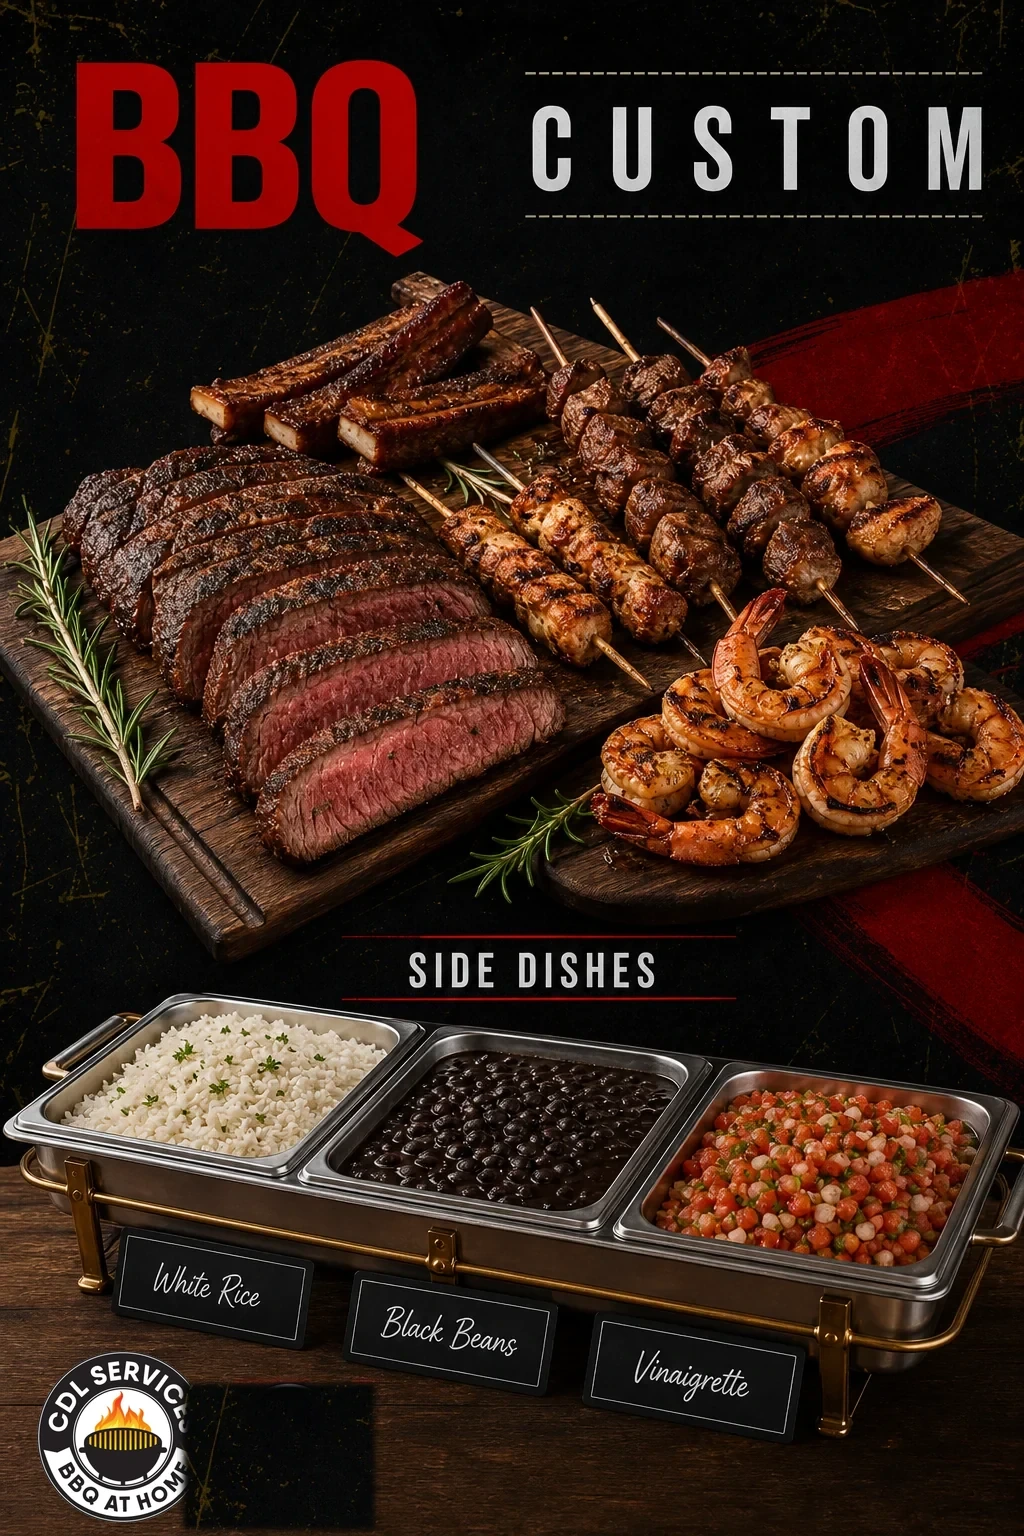
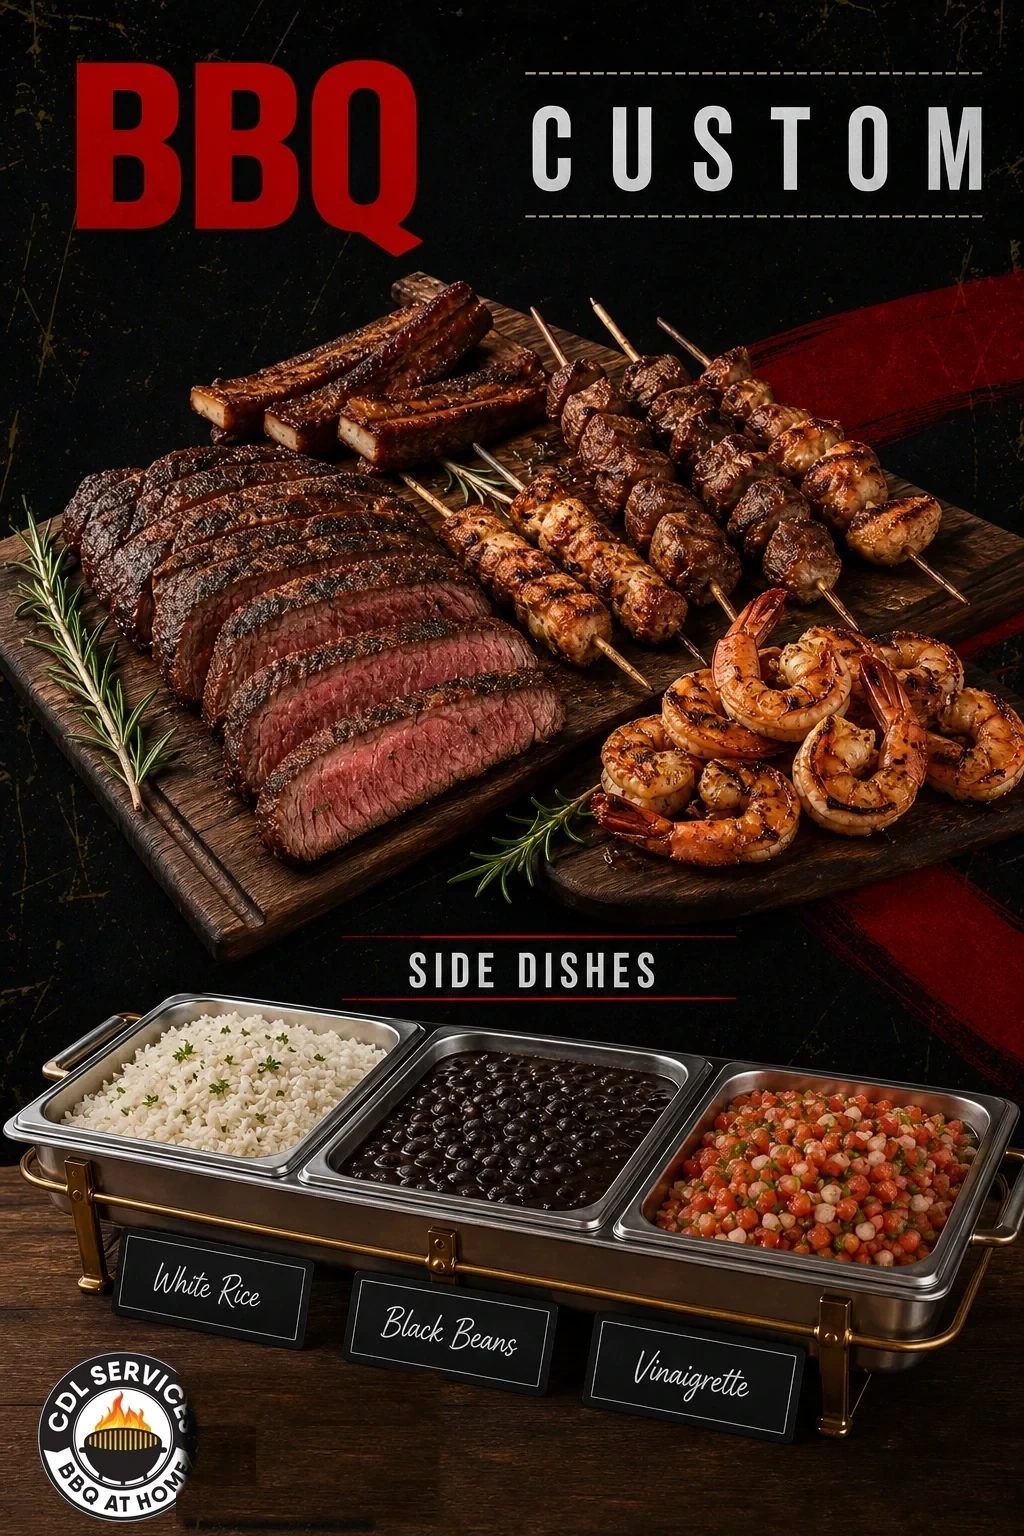
fix(public-quote): remove stray BB from personalized folder art
Tile native wood over the leftover BBQ/BB layer on the six BBQPERS
flyers, restore the official CDL mark, and cache-bust only those files.

Changed region(s): [[0.1562, 0.875, 0.4375, 1.0]]

diff --git a/Lib/packageCatalogVisual.ts b/Lib/packageCatalogVisual.ts
@@ -130,7 +130,13 @@ export function getPackageFolderArt(
   if (!file) return null
   const base = process.env.NEXT_PUBLIC_SUPABASE_URL?.replace(/\/$/, '')
   if (!base) return null
-  return `${base}/storage/v1/object/public/${PACKAGE_FOLDER_BUCKET}/${PACKAGE_FOLDER_PREFIX}/${file}`
+  const url = `${base}/storage/v1/object/public/${PACKAGE_FOLDER_BUCKET}/${PACKAGE_FOLDER_PREFIX}/${file}`
+  // Personalized folders were repaired in place; bust the year-long cache
+  // on those six objects only. Other V3 art keeps the stored filename.
+  if (file.startsWith('bbqpers-')) {
+    return `${url}?v=bbfix1`
+  }
+  return url
 }
 
 export function getPackageCatalogImage(

diff --git a/scripts/dev/remove-folder-stray-bb.py b/scripts/dev/remove-folder-stray-bb.py
@@ -1,0 +1,150 @@
+"""Remove the stray BBQ/BB fragment beside the CDL mark on personalized folders.
+
+The V3 BBQPERS / BBQPERS+ flyers kept a leftover layer to the right of the
+official CDL mark: a dark box and, on PT especially, a large red "BB". The
+mark itself is official and must not be redrawn.
+
+A measured strip of the flyer's own surface is tiled over a tight hole and
+feathered at the edge only. Poisson blending is not used — it reconstructed
+the mark. The official mark is copied back from the original afterwards.
+
+Run: python3 scripts/dev/remove-folder-stray-bb.py [--dry-run]
+"""
+import json
+import os
+import sys
+
+import cv2
+import numpy as np
+
+ROOT = os.path.join(os.path.dirname(os.path.abspath(__file__)), '..', '..')
+PACKAGES = os.path.join(ROOT, 'assets', 'packages')
+FOLDERS = os.path.join(PACKAGES, 'folders-v3')
+MARKS = os.path.join(PACKAGES, 'folder-badge-locations.json')
+REPORT = os.path.join(PACKAGES, 'folder-stray-bb-removal.json')
+
+# hole = leftover box / letters. strip = clean native texture, never overlapping the mark.
+JOBS = {
+    'bbqpers-plus-pt-v3.webp': {
+        'hole': (198, 1304, 310, 188),
+        'strip': (540, 1464, 340, 66),
+    },
+    'bbqpers-plus-en-v3.webp': {
+        'hole': (176, 1366, 270, 160),
+        'strip': (520, 1472, 320, 60),
+    },
+    'bbqpers-plus-es-v3.webp': {
+        'hole': (186, 1348, 280, 164),
+        'strip': (580, 1470, 320, 60),
+    },
+    'bbqpers-pt-v3.webp': {
+        'hole': (230, 1322, 270, 168),
+        'strip': (520, 1494, 480, 38),
+    },
+    'bbqpers-en-v3.webp': {
+        'hole': (216, 1330, 270, 164),
+        'strip': (520, 1494, 480, 38),
+    },
+    'bbqpers-es-v3.webp': {
+        'hole': (230, 1304, 286, 184),
+        'strip': (540, 1490, 460, 42),
+    },
+}
+
+
+def mark_circle(mark, pad=8):
+    cx = mark['x'] + mark['size'] // 2
+    cy = mark['y'] + mark['size'] // 2
+    radius = int(mark['size'] * 0.52) + pad
+    return cx, cy, radius
+
+
+def tile_strip(strip, width, height):
+    sh, sw = strip.shape[:2]
+    reps_x = int(np.ceil(width / sw)) + 1
+    reps_y = int(np.ceil(height / sh)) + 1
+    tiled = np.tile(strip, (reps_y, reps_x, 1))
+    if sh > 4 and reps_y > 1:
+        shift = max(8, sw // 4)
+        for i in range(1, reps_y):
+            y0 = i * sh
+            tiled[y0:y0 + sh] = np.roll(tiled[y0:y0 + sh], shift * (i % 2), axis=1)
+    return tiled[:height, :width]
+
+
+def feather_mask(h, w, border):
+    """Solid fill against the logo edge; only the free sides are feathered.
+
+    The leftover letters sit flush with the mark. Feathering the left edge
+    (or padding the mark protect) put those letters back.
+    """
+    mask = np.ones((h, w), np.float32)
+    for i in range(border):
+        t = (i + 1) / (border + 1)
+        mask[i, :] *= t
+        mask[h - 1 - i, :] *= t
+        mask[:, w - 1 - i] *= t
+    return mask
+
+
+def main():
+    dry = '--dry-run' in sys.argv
+    with open(MARKS, encoding='utf-8') as fh:
+        marks = json.load(fh)
+
+    report = {}
+    for name, job in sorted(JOBS.items()):
+        path = os.path.join(FOLDERS, name)
+        image = cv2.imread(path, cv2.IMREAD_COLOR)
+        if image is None:
+            report[name] = 'missing'
+            continue
+
+        hx, hy, hw, hh = job['hole']
+        sx, sy, sw, sh = job['strip']
+        strip = image[sy:sy + sh, sx:sx + sw]
+        if strip.size == 0 or strip.shape[0] < 8 or strip.shape[1] < 8:
+            report[name] = 'strip missing'
+            continue
+
+        fill = tile_strip(strip, hw, hh)
+        original = image.copy()
+        target = image[hy:hy + hh, hx:hx + hw].astype(np.float32)
+        alpha = feather_mask(hh, hw, 10)[:, :, None]
+        patched = image.copy()
+        patched[hy:hy + hh, hx:hx + hw] = np.clip(
+            fill.astype(np.float32) * alpha + target * (1.0 - alpha),
+            0,
+            255,
+        ).astype(np.uint8)
+
+        mark = marks.get(name.replace('-v3.webp', '-v2.webp'))
+        if mark:
+            protect = np.zeros(image.shape[:2], np.uint8)
+            cx, cy, radius = mark_circle(mark, pad=1)
+            cv2.circle(protect, (cx, cy), radius, 255, -1)
+            protect = cv2.GaussianBlur(protect, (0, 0), 2)
+            weight = protect[:, :, None].astype(np.float32) / 255.0
+            patched = np.clip(
+                original.astype(np.float32) * weight
+                + patched.astype(np.float32) * (1.0 - weight),
+                0,
+                255,
+            ).astype(np.uint8)
+
+        if not dry:
+            cv2.imwrite(path, patched, [cv2.IMWRITE_WEBP_QUALITY, 92])
+        report[name] = f'removed {hw}x{hh} using strip {sw}x{sh} at {sx},{sy}'
+
+    with open(REPORT, 'w', encoding='utf-8') as fh:
+        json.dump(report, fh, indent=2)
+        fh.write('\n')
+
+    for name, note in sorted(report.items()):
+        print(f'  {name}: {note}')
+    print(f"cleared {sum(v.startswith('removed') for v in report.values())} of {len(report)}")
+    return 0
+
+
+if __name__ == '__main__':
+    raise SystemExit(main())
